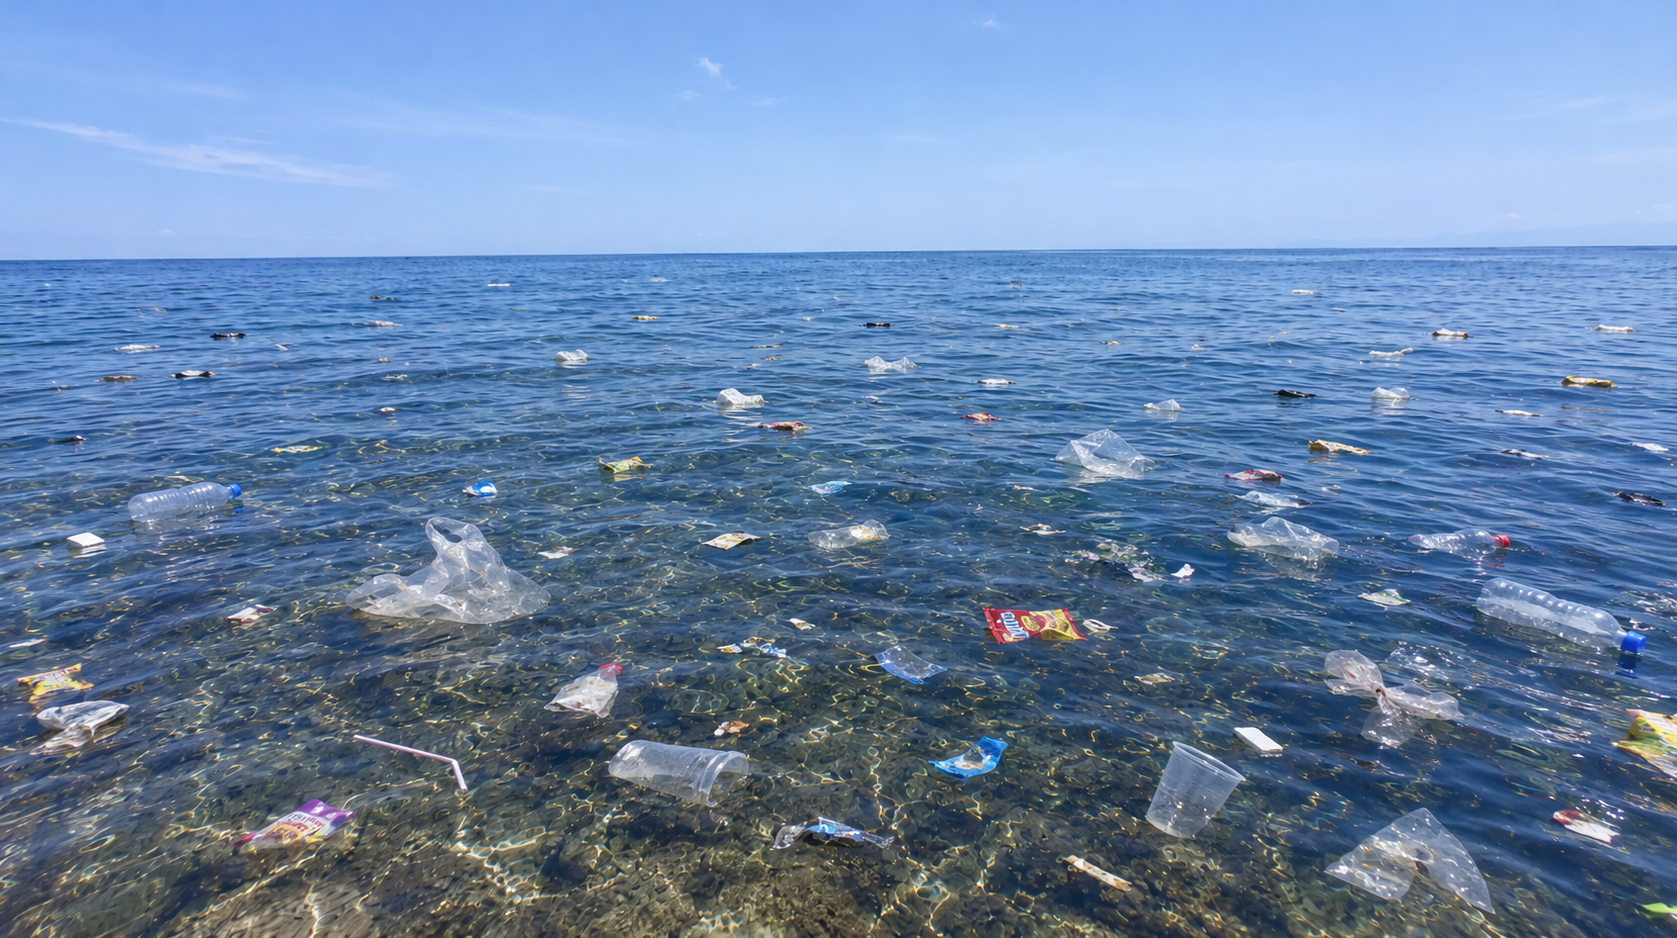
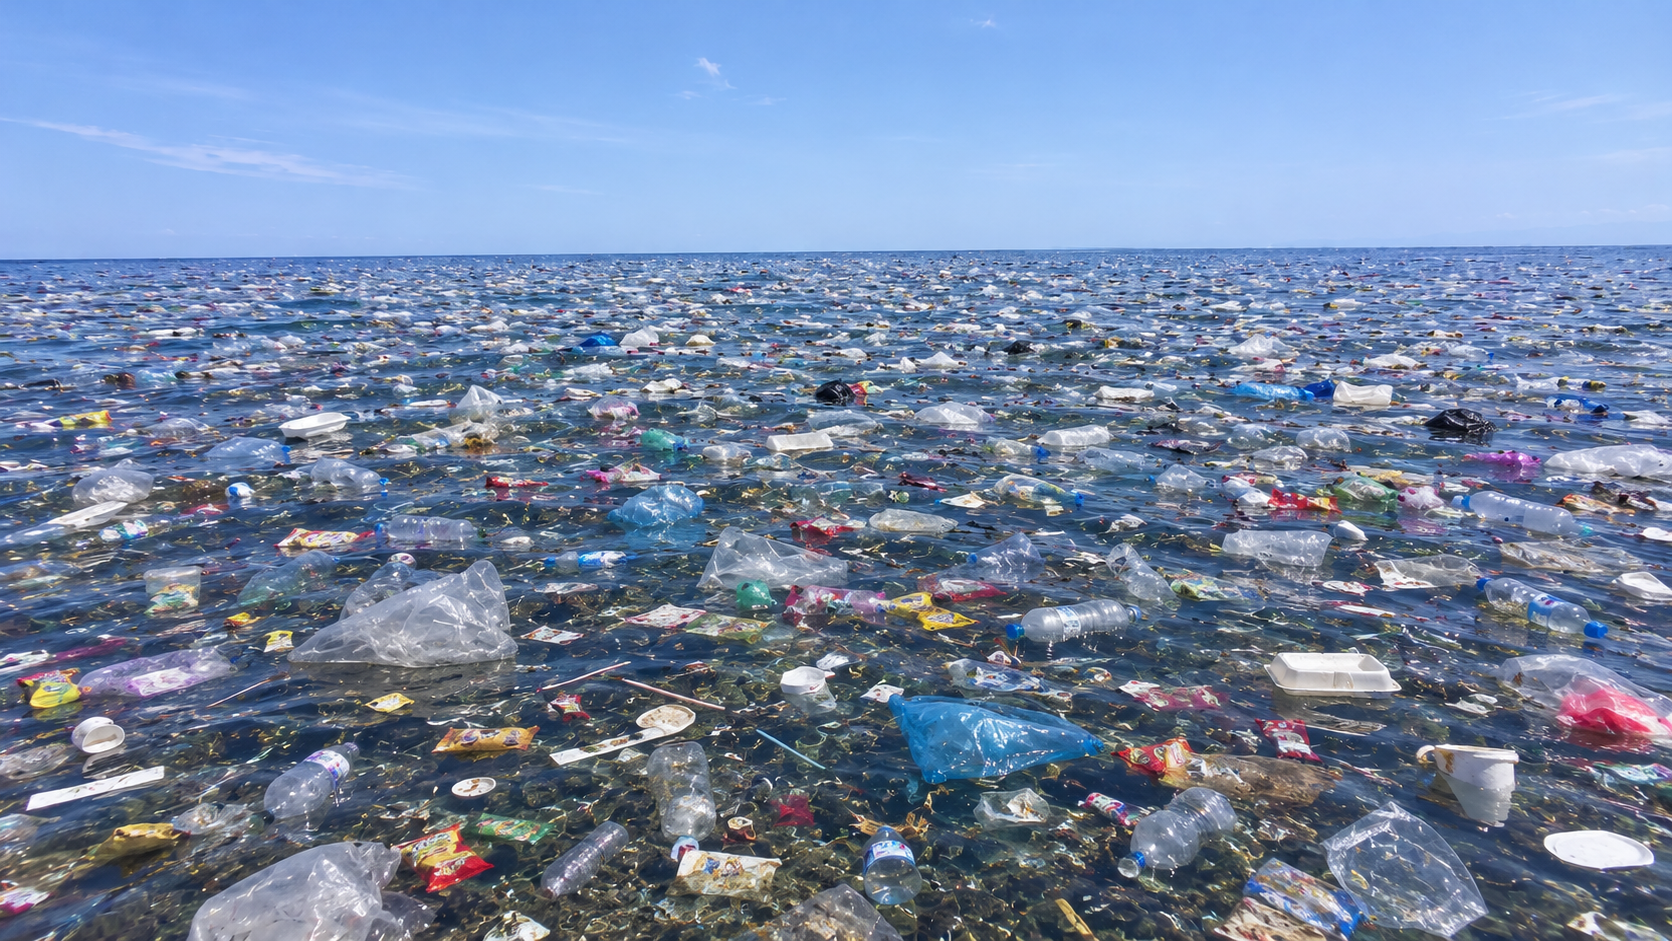
style: memperbaiki navbar

diff --git a/css/style.css b/css/style.css
@@ -165,28 +165,38 @@ a {
   stroke-width: 2.2;
 }
 
-/* Dynamic Floating Pill Navbar */
+/* Navbar minimalis: logo kiri, menu kanan, transparan -> solid saat scroll */
 nav.top {
   position: fixed;
-  top: 1.25rem;
+  top: 0;
   left: 0;
   right: 0;
-  margin-inline: auto;
   z-index: 50;
-  width: min(1140px, calc(100% - 3rem));
+  width: 100%;
+  height: 76px;
   display: flex;
   align-items: center;
   justify-content: space-between;
-  padding: 0.6rem 0.75rem 0.6rem 1.15rem;
-  border-radius: 999px;
-  /* Solid clean ivory-white tanpa backdrop-filter agar tidak merusak sticky scroll */
-  background: rgba(255, 255, 255, 0.96);
+  padding: 0 6vw;
+  border: 0;
+  border-radius: 0;
+  background: rgba(14, 46, 32, 0);
+  color: var(--white);
+  box-shadow: none;
+  text-shadow: 0 1px 14px rgba(0, 0, 0, 0.35);
+  transition: background-color 0.45s ease, color 0.45s ease,
+              box-shadow 0.45s ease, text-shadow 0.45s ease;
+}
+
+nav.top.is-solid {
+  background: var(--char);
+  box-shadow: 0 6px 24px rgba(14, 46, 32, 0.22);
+  text-shadow: none;
+}
+
+nav.top.on-light {
   color: var(--char);
-  border: 1px solid rgba(14, 46, 32, 0.12);
-  box-shadow: 0 10px 28px rgba(14, 46, 32, 0.12);
-  transition: width 0.42s cubic-bezier(0.2, 0.85, 0.25, 1),
-              padding 0.42s cubic-bezier(0.2, 0.85, 0.25, 1),
-              box-shadow 0.3s ease;
+  text-shadow: none;
 }
 
 .logo {
@@ -238,65 +248,75 @@ nav.top {
               opacity 0.2s ease;
 }
 
+nav.top .logo {
+  color: inherit;
+  gap: 0.6rem;
+  font: 700 1.05rem var(--h);
+  letter-spacing: 0.32em;
+  text-transform: uppercase;
+}
+
+nav.top .logo-icon {
+  width: auto;
+  height: auto;
+  background: none;
+  color: inherit;
+  border-radius: 0;
+}
+
+nav.top .logo-icon svg {
+  width: 22px;
+  height: 22px;
+}
+
+nav.top .logo:hover .logo-icon {
+  transform: none;
+}
+
 nav.top ul {
   display: flex;
   align-items: center;
-  gap: 0.35rem;
+  gap: clamp(1.1rem, 2.6vw, 2.6rem);
   list-style: none;
   padding: 0;
   margin: 0;
-  overflow: hidden;
-  opacity: 1;
-  transition: max-width 0.38s cubic-bezier(0.2, 0.85, 0.25, 1),
-              opacity 0.2s ease;
 }
 
 nav.top li a {
   display: inline-block;
   text-decoration: none;
   font: 600 0.92rem var(--h);
-  color: var(--olive);
+  letter-spacing: -0.005em;
+  color: inherit;
   white-space: nowrap;
-  padding: 0.48rem 1rem;
-  border-radius: 999px;
-  transition: color 0.2s ease, background-color 0.2s ease;
+  padding: 0.5rem 0;
+  background: none;
+  border-radius: 0;
+  position: relative;
 }
 
-nav.top li a:hover {
-  color: var(--char);
-  background: var(--mint);
+nav.top li a::after {
+  content: "";
+  position: absolute;
+  left: 0;
+  right: 0;
+  bottom: 0.2rem;
+  height: 1.5px;
+  background: currentColor;
+  transform: scaleX(0);
+  transform-origin: left;
+  transition: transform 0.3s cubic-bezier(0.2, 0.85, 0.25, 1);
 }
 
-nav.top li a[aria-current="page"] {
-  background: var(--em-grad);
-  color: var(--white);
-  font-weight: 700;
+nav.top li a:hover::after,
+nav.top li a[aria-current]::after {
+  transform: scaleX(1);
 }
 
-/* State Collapsed saat Scroll ke Bawah (1 Ikon Bulat Presisi) */
-nav.top.collapsed {
-  width: 52px;
-  padding: 6px;
-  justify-content: center;
-  background: var(--white);
-  border-color: rgba(20, 156, 98, 0.28);
-  box-shadow: 0 8px 22px rgba(14, 46, 32, 0.16);
-}
-
-nav.top.collapsed .logo {
-  gap: 0;
-}
-
-nav.top.collapsed .logo-icon svg,
-nav.top.collapsed .logo-icon img {
-  transform: rotate(-14deg);
-}
-
-nav.top.collapsed .logo-text,
-nav.top.collapsed ul {
-  max-width: 0;
-  opacity: 0;
-  pointer-events: none;
+nav.top li a:hover,
+nav.top li a[aria-current] {
+  background: none;
+  color: inherit;
 }
 
 .burger {
@@ -305,21 +325,30 @@ nav.top.collapsed ul {
 
 @media (max-width: 680px) {
   nav.top {
-    width: calc(100% - 1.5rem);
-    padding: 0.5rem 0.6rem 0.5rem 0.85rem;
-  }
-
-  nav.top:not(.collapsed) .logo-text {
-    display: none;
+    height: 64px;
+    padding: 0 1rem;
   }
 
   nav.top ul {
-    gap: 0.15rem;
+    gap: 0.95rem;
   }
 
   nav.top li a {
-    font-size: 0.82rem;
-    padding: 0.42rem 0.68rem;
+    font-size: 0.8rem;
+  }
+
+  nav.top .logo-text {
+    display: none;
+  }
+}
+
+@media (max-width: 360px) {
+  nav.top ul {
+    gap: 0.7rem;
+  }
+
+  nav.top li a {
+    font-size: 0.74rem;
   }
 }
 

diff --git a/js/script.js b/js/script.js
@@ -21,7 +21,7 @@ document.body.insertAdjacentHTML(
   "afterbegin",
   `<a href="#main" style="position:absolute;left:-999px">Lewati ke konten</a>
   <nav class="top" aria-label="Navigasi utama">
-    <a class="logo" href="index.html" aria-label="EcoVera — Buka atau tutup menu navigasi">
+    <a class="logo" href="index.html" aria-label="EcoVera — Beranda">
       <span class="logo-icon">${ecoIconSvg}</span>
       <span class="logo-text">EcoVera</span>
     </a>
